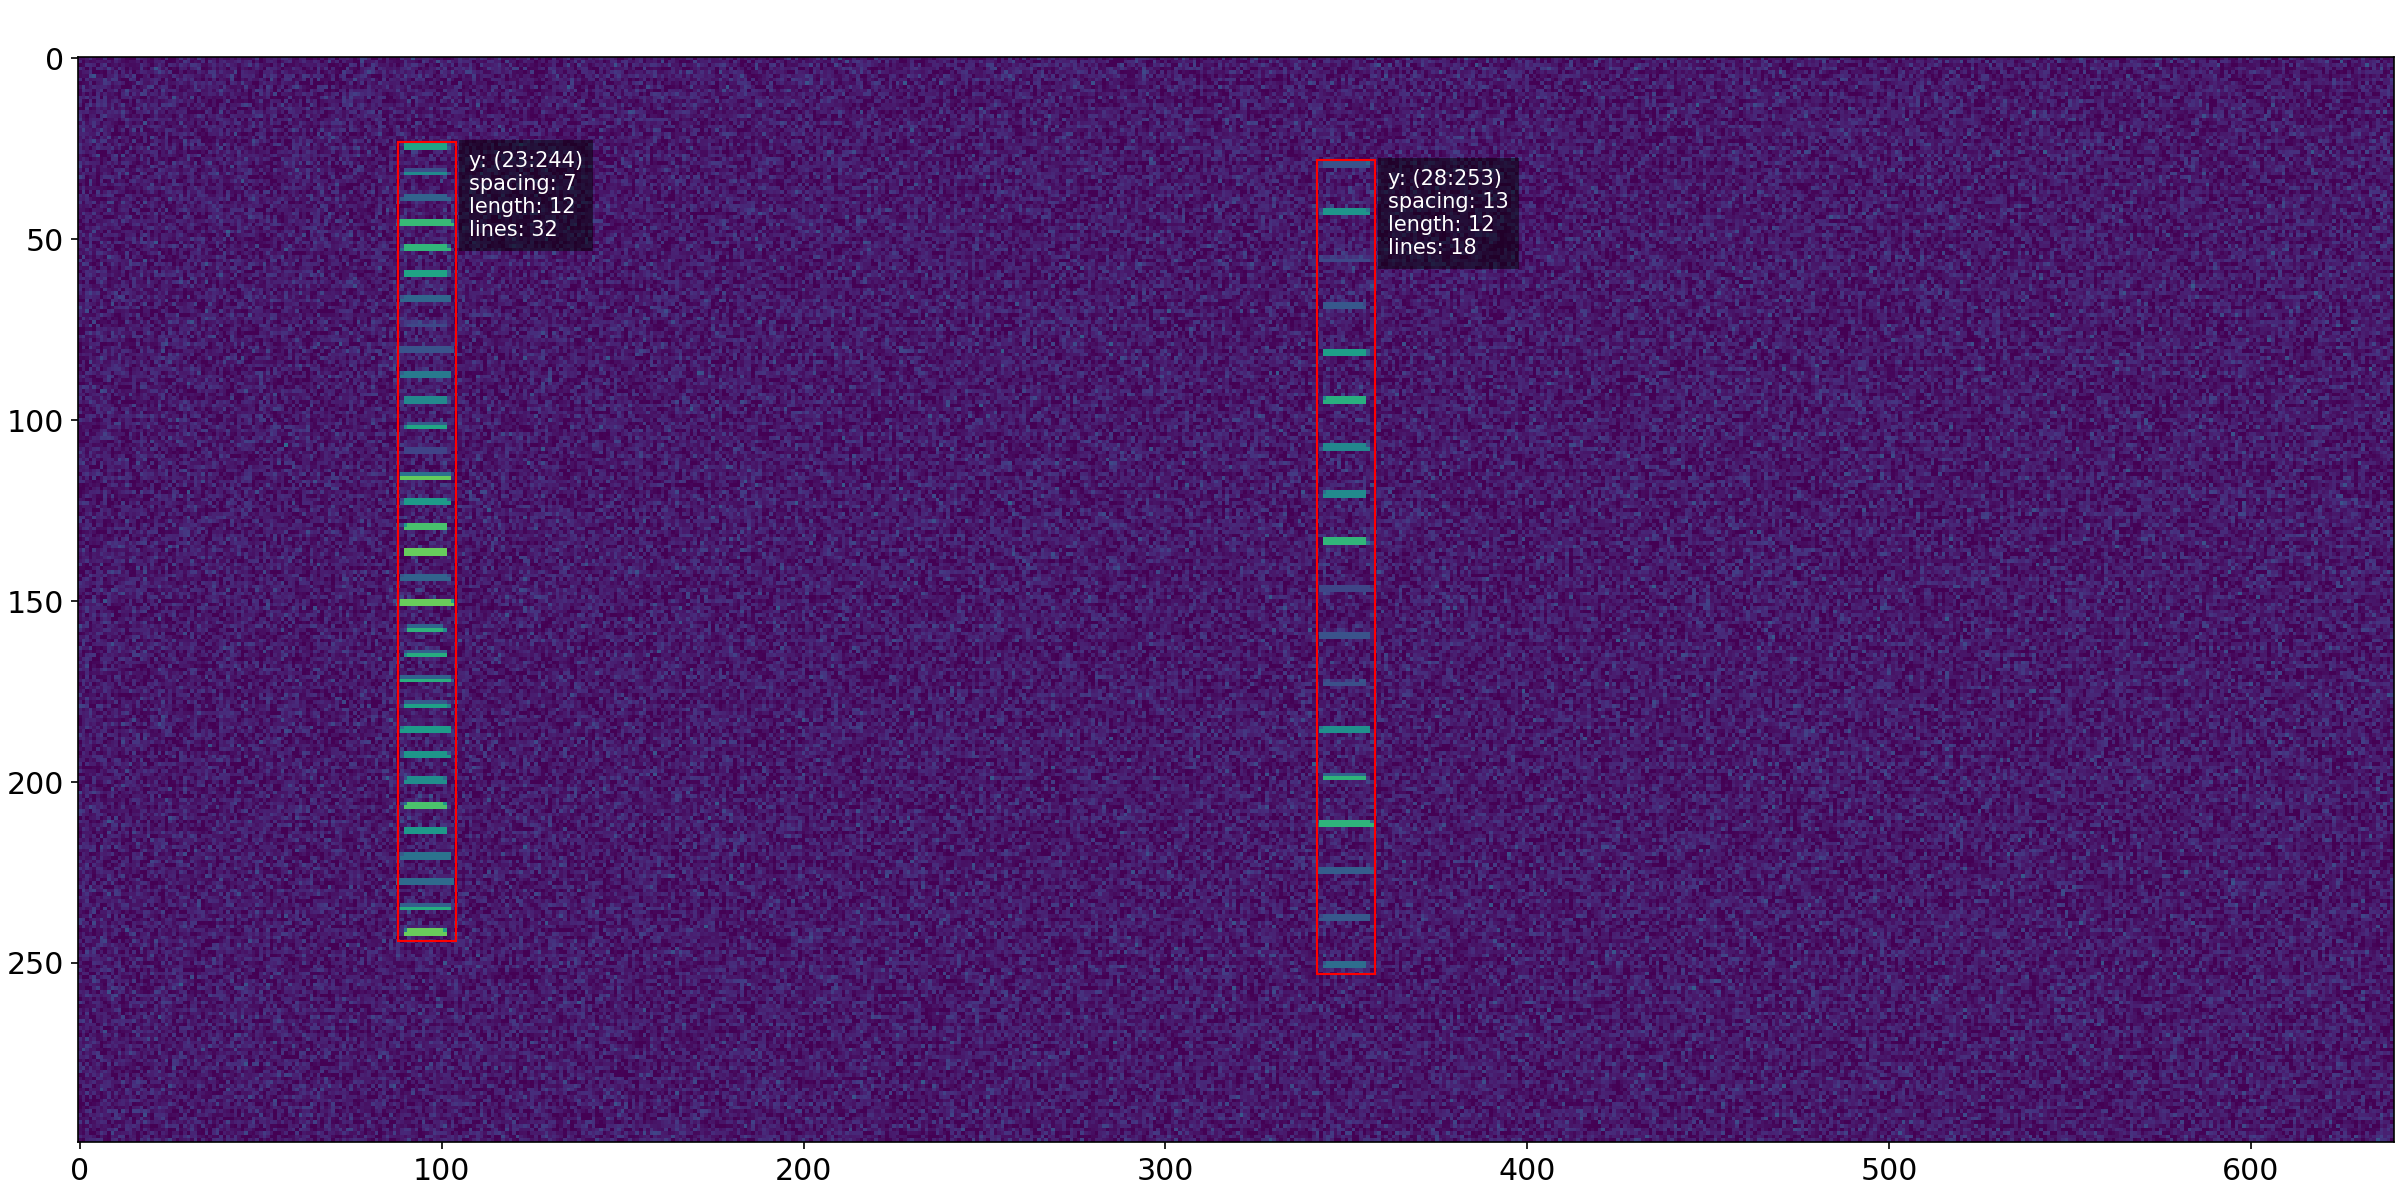
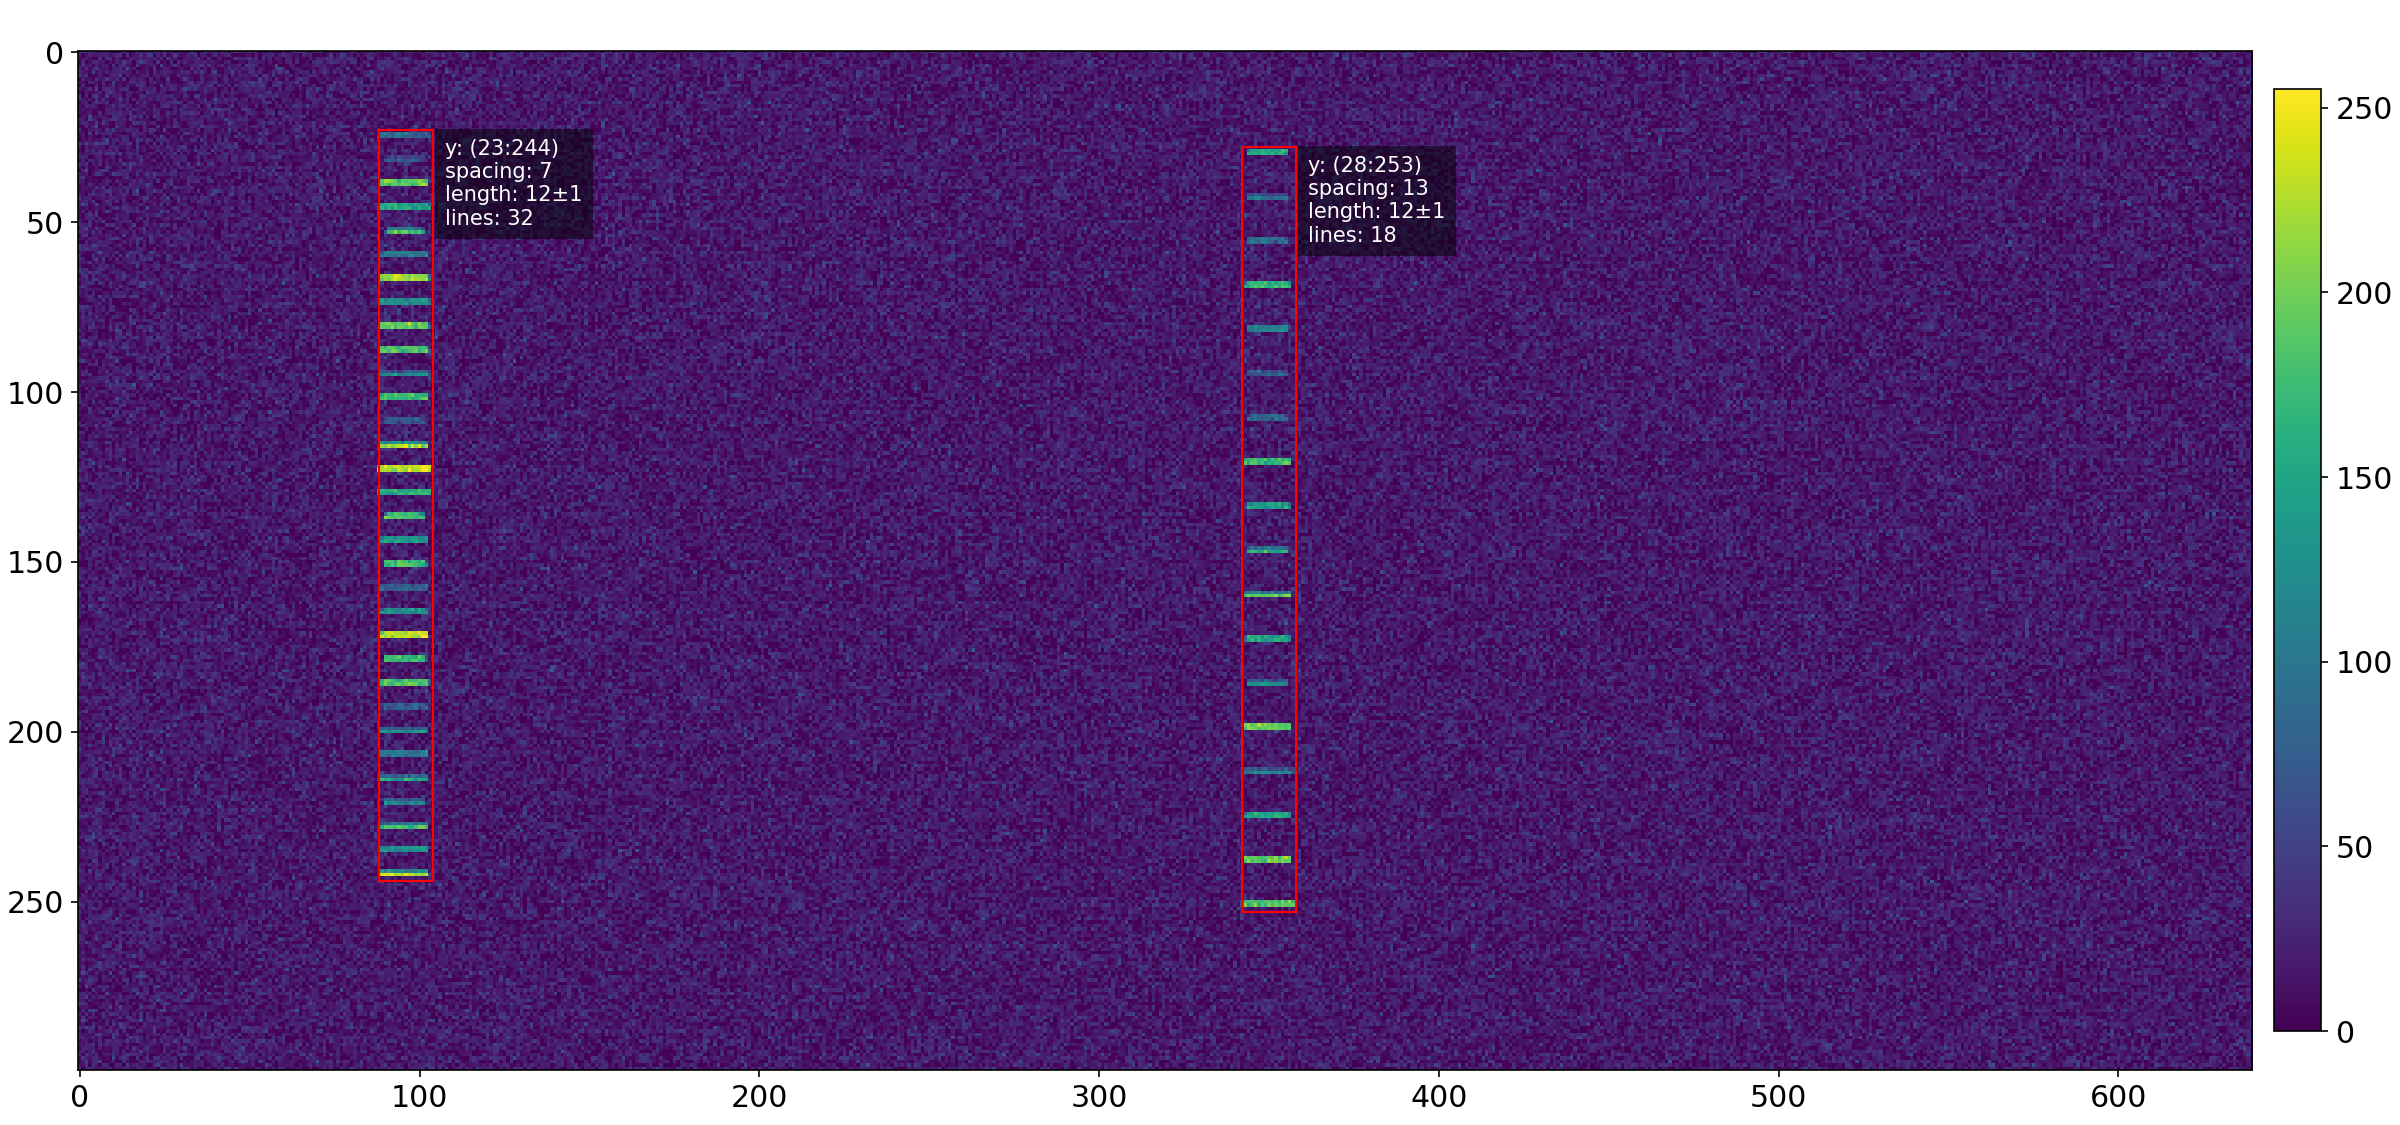
Changement dans le modèle de segmentation, main

diff --git a/Dataset.py b/Dataset.py
@@ -1,6 +1,11 @@
 import tensorflow as tf
 import tensorflow_datasets as tfds
 from tensorflow import keras
+import segmentation_models as sm
+
+def reshape_dataset(dataset):
+    shape = dataset.shape
+    return dataset.reshape(shape[0]*shape[1], shape[2], shape[3])
 
 def to_one_hot(image, label):
     global classes
@@ -53,7 +58,7 @@ def crops_to_dataset(crops, labels, balanced=True, split=False, shuffle=True):
         return ds.prefetch(32)
 
 
-def define_model(img_shape, fine_tune_layers=0, dropout=False):
+def classification_model(img_shape, fine_tune_layers=0, dropout=False):
     base_model = keras.applications.ResNet50(
       weights="imagenet",  # Load weights pre-trained on ImageNet.
       input_shape=(32,32,3),
@@ -92,37 +97,7 @@ def define_model(img_shape, fine_tune_layers=0, dropout=False):
     model.compile(optimizer=opt, loss=loss, metrics=['accuracy'])
     return model
 
-def segmentation_model(img_shape, fine_tune_layers=0, dropout=False):
-    base_model = keras.applications.ResNet50(
-      weights="imagenet",  # Load weights pre-trained on ImageNet.
-      input_shape=(32,32,3),
-      include_top=False,
-    )  # Do not include the ImageNet classifier at the top.
-
-    if fine_tune_layers >= 1:
-        # Freeze all the layers except for the last `fine_tune_layers`
-        for layer in base_model.layers[:-fine_tune_layers]:
-            layer.trainable =  False
-    else:
-        base_model.trainable = False
-
-    # Create new model on top
-    inputs = keras.Input(shape=img_shape)
-    x = inputs
-    if img_shape[0] != 32:
-        x = keras.layers.experimental.preprocessing.Resizing(32,32)(x)
-    # Convolve to adapt to 3-channel input
-    x = keras.layers.Conv2D(3,(3,3), padding='same')(x)
-    # Pre-processing
-    x = keras.applications.resnet50.preprocess_input(x)
-    # Base pre-trained model
-    x = base_model(x, training=False)
-    outputs = AveragePooling2D(
-        (7, 7), name='avg_pool')(x)
-    #outputs = keras.layers.Dense(1)(x)
-    model = keras.Model(inputs, outputs)
-
-    opt = keras.optimizers.SGD(learning_rate=0.001, momentum=0.9)
-    loss = keras.losses.MeanSquaredError()
-    model.compile(optimizer=opt, loss=loss, metrics=['accuracy'])
+def segmentation_model(img_shape):
+    model_2 = sm.Unet(backbone_name='resnet34', classes=1, input_shape=img_shape, encoder_freeze=True)
+    model_2.compile(optimizer='adam', loss='binary_crossentropy', metrics=['accuracy'])
     return model

diff --git a/main.py b/main.py
@@ -10,9 +10,9 @@ def main():
         # Image test
         train = Image(height, width)
         train.add_object(starting_pt = [24*4, 25],
-                        spacing = 7, length = 12,lines = 32)
+                        spacing = 7, length = 12, l_var =1, lines = 32)
         train.add_object(starting_pt = [350, 30],
-                        spacing = 13, length = 12,lines = 18)
+                        spacing = 13, length = 12, l_var =1, lines = 18)
         train.plot_label()
         plt.savefig('train')
         var_time = timing('train', var_time)
@@ -48,7 +48,7 @@ def main():
         for spacing in spacings:
             pt = [47*(spacing-3), 30]
             test.add_object(starting_pt = pt,
-                        spacing = spacing, length = 12, lines = 4*(55//spacing))
+                        spacing = spacing, length = 12, l_var=2, lines = 4*(55//spacing))
 
         fig = test.plot_label()
         plt.savefig('test')
